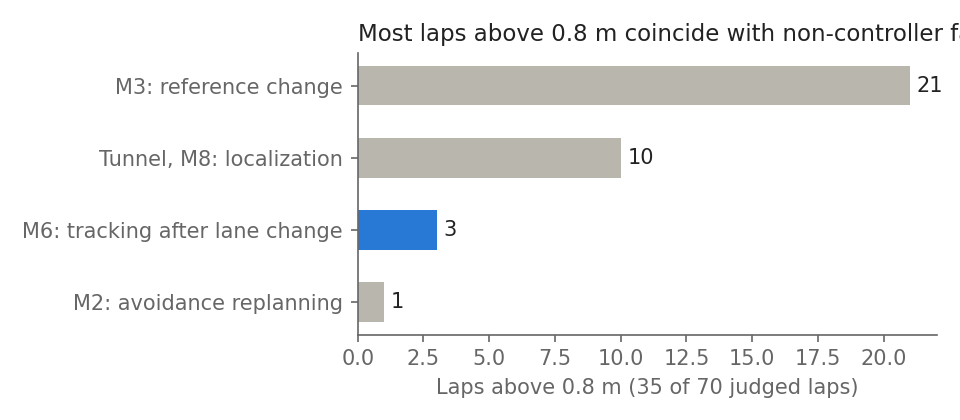
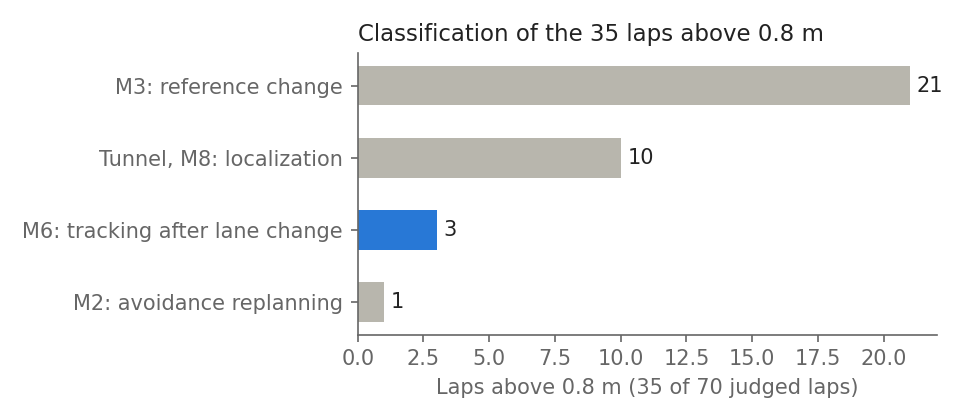
Shorten clipped figure title
Claude-Session: https://claude.ai/code/session_01Vfu1hzbw59htbh8d1GgBLp

Changed region(s): [[0.375, 0.0619, 1.0, 0.1238]]

diff --git a/verification/runner/analyze_all.py b/verification/runner/analyze_all.py
@@ -119,4 +119,4 @@ print("font", plt.rcParams["font.family"], "rows", len(R), "valid", sum(x["valid
 fig, ax = plt.subplots(figsize=(6.4, 2.8)); it = [("M3: reference change", 21, GREY), ("Tunnel, M8: localization", 10, GREY), ("M6: tracking after lane change", 3, BLUE), ("M2: avoidance replanning", 1, GREY)]
 ax.barh([n for n, _, _ in it][::-1], [v for _, v, _ in it][::-1], color=[c for _, _, c in it][::-1], height=.55)
 for i, (_, v, _) in enumerate(it[::-1]): ax.text(v + .25, i, str(v), va="center", color=INK)
-ax.set(xlabel="Laps above 0.8 m (35 of 70 judged laps)"); ax.set_title("Most laps above 0.8 m coincide with non-controller factors", loc="left", fontsize=11, color=INK); save(fig, "fig14_exceed_causes.png")
+ax.set(xlabel="Laps above 0.8 m (35 of 70 judged laps)"); ax.set_title("Classification of the 35 laps above 0.8 m", loc="left", fontsize=11, color=INK); save(fig, "fig14_exceed_causes.png")
